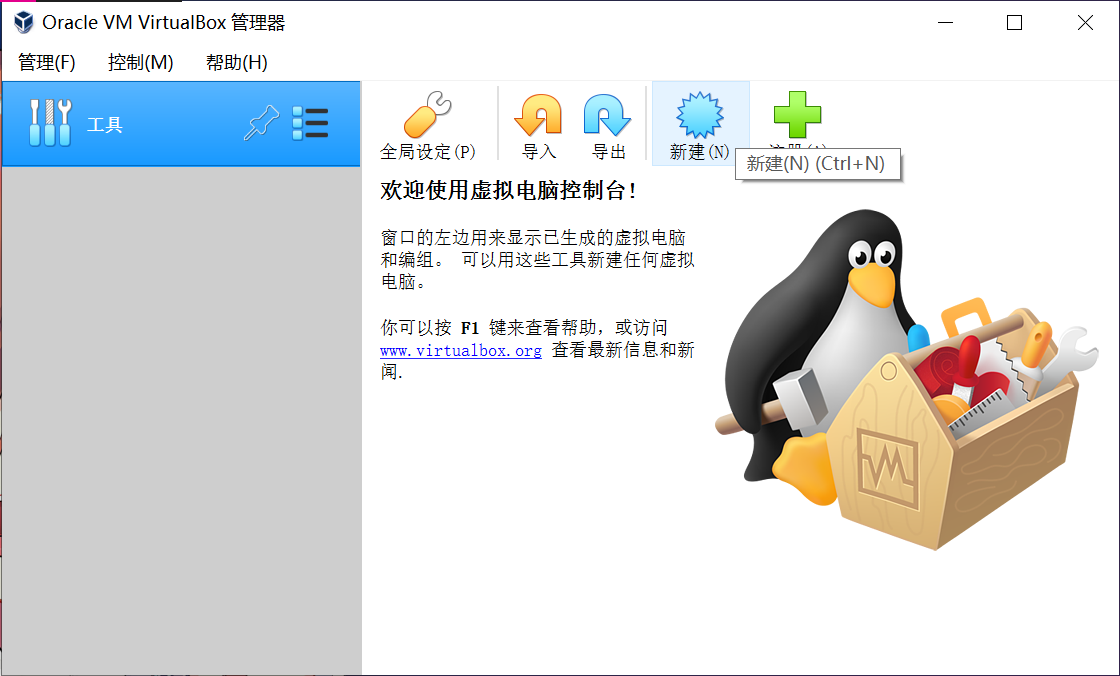
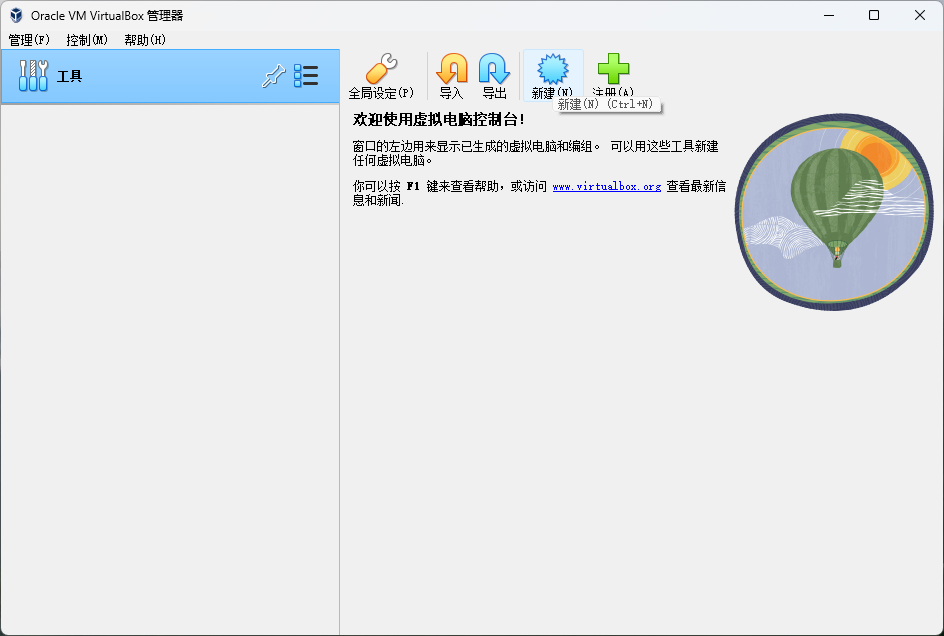
更新虚拟机安装前文档
VirtualBox 更新了，有些设置的位置改变了，故更新此文档

diff --git a/docs/guide/rookie/pre-virt.md b/docs/guide/rookie/pre-virt.md
@@ -45,27 +45,33 @@ VirtualBox 安装包同样可以在开源镜像站（推荐）或者 [VirtualBox
 
 ![Configure-vb_step-2](../../assets/guide/rookie/pre-virt_vb-2.png)
 
-2. 在弹出的设置向导窗口中输入虚拟机的名字以及虚拟机相关文件的保存位置。建议不要在名字中带有特殊字符。若名字中含有 `arch` 字眼，VirtualBox 会自动将类型和版本修改为 archlinux，否则请手动选择
+2. 基础设置
+   1. 输入虚拟机的名字。建议不要在名字中带有特殊字符
+   2. 选择虚拟机相关文件的保存位置（你的虚拟硬盘也会保存在这个位置！请确保有足够的磁盘空间）
+   3. 若名字中含有 `arch` 字眼，VirtualBox 会自动将类型和版本修改为 archlinux，否则请手动选择
+   4. 点击 `下一步`
+
+::: tip ℹ 提示
+
+你可以在这一步就选择虚拟光盘，但本教程将在后面启动时选择。
+
+:::
 
 ![Configure-vb_step-3](../../assets/guide/rookie/pre-virt_vb-3.png)
 
-3. 将内存大小修改为合适大小。建议大于 2GB。因为即使 archlinux 可以在 512MB 的内存下运行，但安装还需要更多的内存
+3. 设置硬件
+   1. 将 `内存大小` 修改为合适大小。建议大于 2GB。因为即使 archlinux 可以在 512MB 的内存下运行，但安装还需要更多的内存
+   2. 适当调整 `处理器数量`
+   3. 勾选 `启用 EFI`
+   4. 点击 `下一步`
 
 ![Configure-vb_step-4](../../assets/guide/rookie/pre-virt_vb-4.png)
 
-4. 点击 `创建`
+4. 指定虚拟磁盘大小。建议大于 64 GB（因为是动态分配，不会立即占用硬盘空间，请放心选择；同时我们在虚拟机里不会安装过多的软件，所以 64GB 足够我们使用，当然你也可以自由调整） > 点击 `下一步`
 
 ![Configure-vb_step-5](../../assets/guide/rookie/pre-virt_vb-5.png)
 
-5. 选择 `VDI` 类型（默认） > 点击 `下一步`
-
-![Configure-vb_step-6](../../assets/guide/rookie/pre-virt_vb-6.png)
-
-6. 选择 `动态分配` （默认） > 点击 `下一步`
-
-![Configure-vb_step-7](../../assets/guide/rookie/pre-virt_vb-7.png)
-
-7. 选择合适的储存位置（一般默认即可） > 指定虚拟磁盘大小。建议大于 64 GB（因为是动态分配，不会立即占用硬盘空间，请放心选择；同时我们在虚拟机里不会安装过多的软件，所以 64GB 足够我们使用，当然你也可以自由调整） > 点击 `创建`
+5. 确认无误后，点击 `完成`
 
 ::: tip ℹ 提示
 
@@ -73,50 +79,48 @@ VirtualBox 安装包同样可以在开源镜像站（推荐）或者 [VirtualBox
 
 :::
 
+![Configure-vb_step-6](../../assets/guide/rookie/pre-virt_vb-6.png)
+
+6. 点击 `设置`
+
+![Configure-vb_step-7](../../assets/guide/rookie/pre-virt_vb-7.png)
+
+7. 点击侧栏 `系统` > `主板` > 在 `扩展特性` 中检查是否勾上 `启用 EFI` （如果没有，说明前面没有跟教程做，现在勾上也不晚！）
+
 ![Configure-vb_step-8](../../assets/guide/rookie/pre-virt_vb-8.png)
 
-8. 点击 `设置`
-
-![Configure-vb_step-9](../../assets/guide/rookie/pre-virt_vb-9.png)
-
-9. 点击侧栏 `系统` > `主板` > 在 `扩展特性` 中勾上 `启用 EFI`
-
-![Configure-vb_step-10](../../assets/guide/rookie/pre-virt_vb-10.png)
-
-![Configure-vb_step-11](../../assets/guide/rookie/pre-virt_vb-11.png)
-
-10. `处理器数量` 和 `显存大小` 可做适当调整
+8. `显存大小` 可以做适当调整。如果是高分屏可以适当调大 `缩放率` 防止后面虚拟机启动后字太小
 
 ::: warning ⚠ 注意
 
-请不要在 `硬件加速` 中勾选 `启用3D加速`。否则会导致安装好桌面环境后无法进入桌面，只有黑屏和光标。如有需要可以参阅 [ArchWiki 相关说明](<https://wiki.archlinux.org/title/VirtualBox_(%E7%AE%80%E4%BD%93%E4%B8%AD%E6%96%87)#Arch_Linux_guest%E8%99%9A%E6%8B%9F%E6%9C%BA%E4%B8%AD%E6%B2%A1%E6%9C%89%E7%A1%AC%E4%BB%B63D%E5%8A%A0%E9%80%9F>)。
+请不要勾选 `启用3D加速`。否则会导致安装好桌面环境后无法进入桌面，只有黑屏和光标。如有需要可以参阅 [ArchWiki 相关说明](<https://wiki.archlinux.org/title/VirtualBox_(%E7%AE%80%E4%BD%93%E4%B8%AD%E6%96%87)#Arch_Linux_guest%E8%99%9A%E6%8B%9F%E6%9C%BA%E4%B8%AD%E6%B2%A1%E6%9C%89%E7%A1%AC%E4%BB%B63D%E5%8A%A0%E9%80%9F>)。
 
 :::
 
+![Configure-vb_step-9](../../assets/guide/rookie/pre-virt_vb-9.png)
+
+9. 在侧栏 `网络` > `网卡 1` > 将 `连接方式` 改为 `桥接网卡`
+
+![Configure-vb_step-10](../../assets/guide/rookie/pre-virt_vb-10.png)
+
+10. 点击 `启动`，开启虚拟机
+
+![Configure-vb_step-11](../../assets/guide/rookie/pre-virt_vb-11.png)
+
+11. 在弹出的窗口的下拉菜单中选择 `其他`
+
 ![Configure-vb_step-12](../../assets/guide/rookie/pre-virt_vb-12.png)
 
-11. 在侧栏 `网络` > `网卡 1` > 将 `连接方式` 改为 `桥接网卡`
+12. 在弹出的资源管理器中选择 `archlinux 安装镜像`
 
 ![Configure-vb_step-13](../../assets/guide/rookie/pre-virt_vb-13.png)
 
-12. 点击 `启动`，开启虚拟机
+13. 点击 `挂载并尝试启动`
 
 ![Configure-vb_step-14](../../assets/guide/rookie/pre-virt_vb-14.png)
 
-13. 在弹出的选择启动盘窗口点击 `文件夹小图标`
+14. 在第一个选项回车 `Enter`
 
 ![Configure-vb_step-15](../../assets/guide/rookie/pre-virt_vb-15.png)
 
-14. 点击 `注册` > 在弹出的资源管理器中选择 `archlinux 安装镜像`
-
-![Configure-vb_step-16](../../assets/guide/rookie/pre-virt_vb-16.png)
-
-15. 选中 `archlinux 安装镜像` > 点击 `选择`
-
-![Configure-vb_step-17](../../assets/guide/rookie/pre-virt_vb-17.png)
-
-16. 在第一个选项回车 `Enter`
-
-![Configure-vb_step-18](../../assets/guide/rookie/pre-virt_vb-18.png)
-
-17. 此时虚拟机会黑屏一会，经过一段时间的等待和提示信息的刷屏，就可以看到 🐂 牛牛了
+15. 此时虚拟机会黑屏一会，经过一段时间的等待和提示信息的刷屏，就可以进入安装环境了
